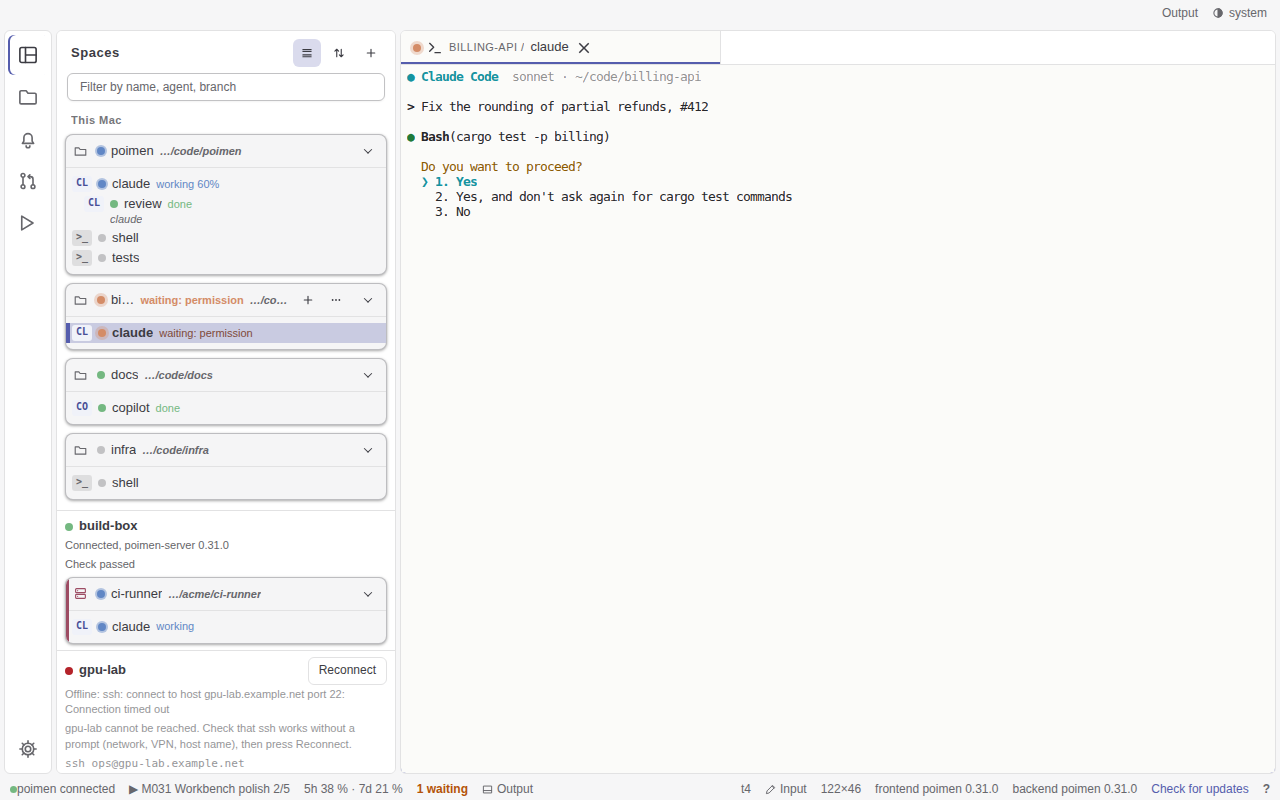
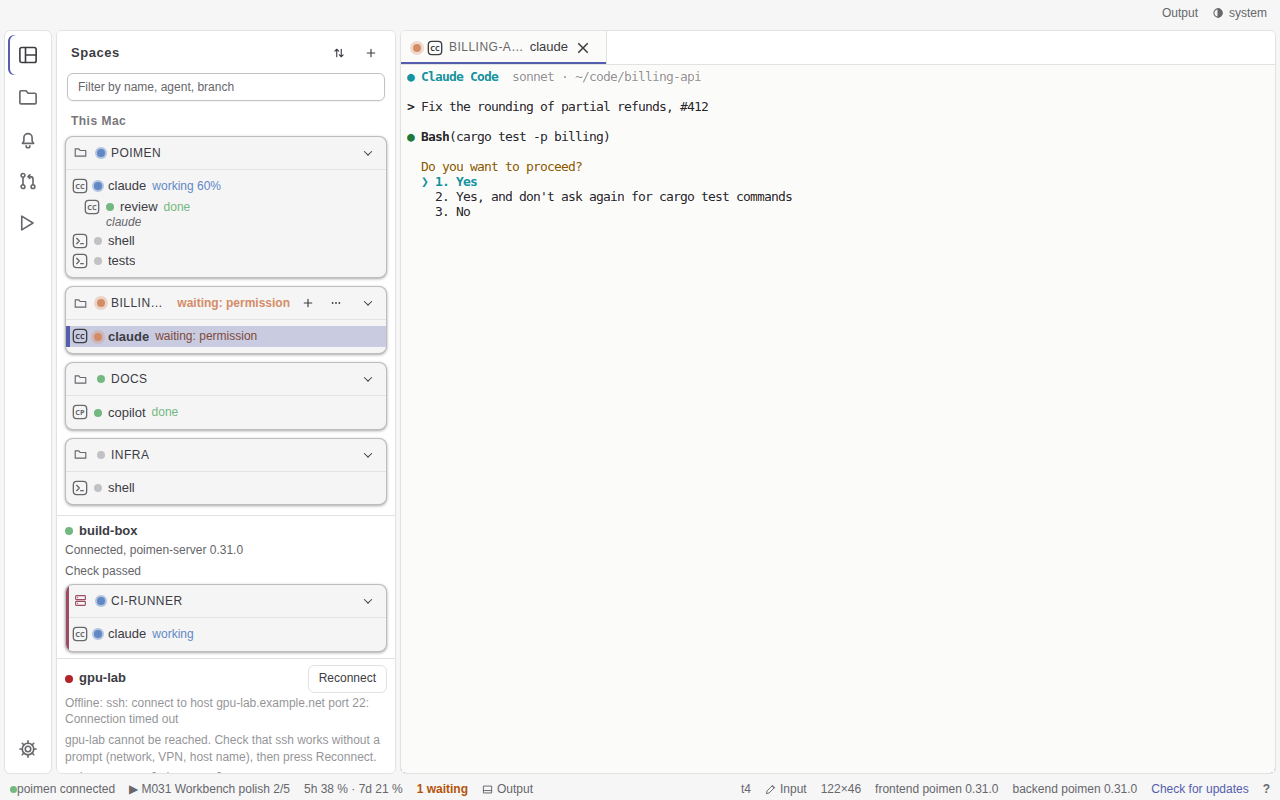
docs(site): screenshots of the restyled views in light and dark (#1365)
New screenshot views for the command palette, jump palette, agent picker,
terminal search, Changes and GitHub issues, and the demo answers the
tabs, blocked and flow views were missing.

Refs #1365

Changed region(s): [[0.0312, 0.0938, 0.3125, 0.9688], [0.3438, 0.0312, 0.4375, 0.0625], [0.2188, 0.0312, 0.25, 0.0938]]

diff --git a/src/demo/poimen/demo.ts b/src/demo/poimen/demo.ts
@@ -3,7 +3,10 @@
 import { DEFAULT_SETTINGS } from "../../app/core/settings";
 import { DemoBackend, type DemoChannel } from "../kit/backend";
 import {
+  CHANGED_FILE,
+  CHANGES,
   CLOSED_ISSUES,
+  DETECTED,
   HARNESSES,
   MAIN_CALLS,
   MILESTONES,
@@ -75,9 +78,20 @@ export function createPoimenDemo(): DemoBackend {
     close_terminal: null,
     schedules_list: { paused: false, schedules: [] },
     schedules_alerts: { alerts: [] },
+    changes_file: CHANGED_FILE,
+    changes_findings: { state: "none" },
+    worktree_branches: [],
+    changes_pr_state: { branch: null, base: null, pushed: false, existing: null },
   });
   const POIMEN = `${HOME}/code/poimen`;
   backend.answer({
+    changes_list: (args) => ({ ...CHANGES, scope: text(args, "scope") }),
+    detected_entries: (args) => (text(args, "dir") === POIMEN ? DETECTED : []),
+    repo_root: (args) => text(args, "dir"),
+    github_pulls: (args) =>
+      ((args?.["dirs"] as string[] | undefined) ?? [])
+        .filter((d) => d === POIMEN)
+        .map((root) => ({ root, repo: "acme/poimen", status: "ok", pulls: [] })),
     subagents_watch: (args, b) => {
       const id = text(args, "terminalId");
       const session = SNAPSHOT.terminals.find((t) => t.terminal_id === id)?.agent_session?.value;

diff --git a/src/demo/poimen/data.ts b/src/demo/poimen/data.ts
@@ -478,6 +478,36 @@ export const CLOSED_ISSUES = [
   gh(1102, "[PBI] feat(tabs): tab strip in the shell", ["pbi"], { state: "CLOSED" }),
 ];
 
+/** The skill the palette offers in the poimen repository. */
+export const DETECTED = [{ source: "skills", name: "deliver", description: "Ship an issue" }];
+
+/** The Changes tab of the poimen repository: the changed files and the content of each. */
+export const CHANGES = {
+  base: "main",
+  scope: "base",
+  from: "1a2b3c4",
+  files: [
+    ["angular.json", "modified", 12, 1],
+    ["src/demo/kit/backend.ts", "added", 74, 0],
+    ["src/demo/tauri.demo.ts", "added", 18, 0],
+  ].map(([path, status, additions, deletions]) => ({
+    path,
+    old_path: null,
+    status,
+    additions,
+    deletions,
+    binary: false,
+    staged: false,
+    conflicted: false,
+  })),
+};
+
+export const CHANGED_FILE = {
+  state: "text",
+  old: '{\n  "serve": {\n    "configurations": {}\n  }\n}\n',
+  new: '{\n  "serve": {\n    "configurations": {\n      "demo": { "port": 1422 }\n    }\n  }\n}\n',
+};
+
 /** The main agent's calls of terminal `t1`, by tool use id: the skills and the subagent it started. */
 export const MAIN_CALLS = [
   {
